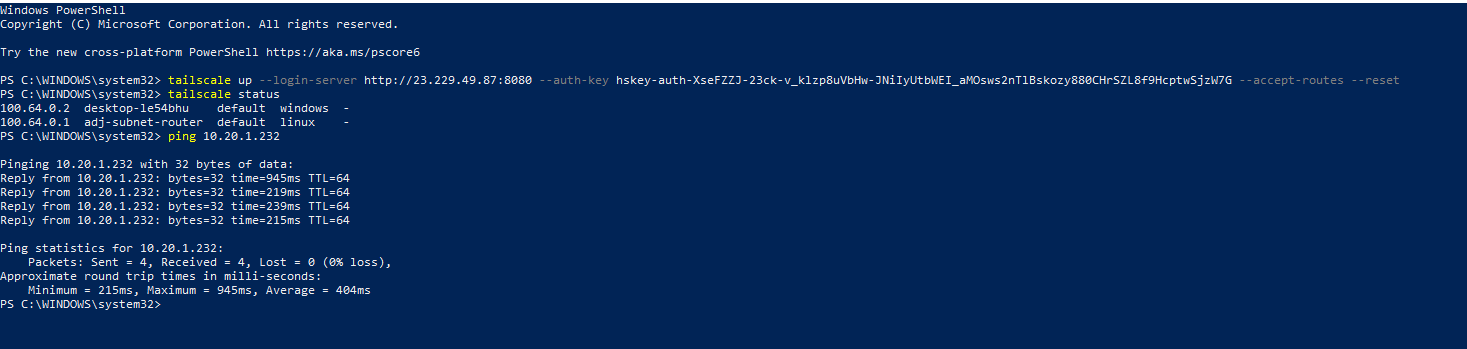
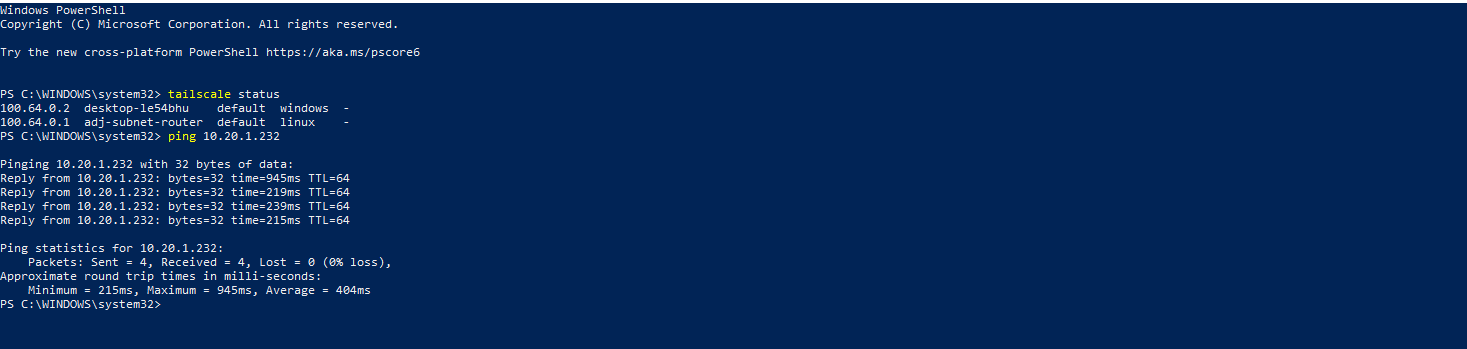
docs: restructure Tutorial 1 around build-private-network.sh, redact real credentials from screenshot

Changed region(s): [[0.0, 0.2006, 0.9509, 0.2579]]

diff --git a/src/content/docs/tutorials/build-private-network-headscale.md b/src/content/docs/tutorials/build-private-network-headscale.md
@@ -280,10 +280,12 @@ other device. The script applies this split automatically.
 :::caution
 
 Marketplace App templates like this one get a default SSH firewall rule at deploy time, open to
-**any address** (`0.0.0.0/0`, both TCP and UDP port 22). Not something you created, and not scoped
-to you. The script finds and deletes it, then adds a replacement scoped to your own IP. Plain OS
-templates (like the subnet router below) don't get this default rule and start with nothing open, so
-this only applies to the Headplane VM.
+**any address** (`0.0.0.0/0`, both TCP and UDP port 22), an explicit rule visible in
+`zcp firewall list`. Not something you created, and not scoped to you. The script finds and deletes
+it, then adds a replacement scoped to your own IP.
+
+This is specific to Marketplace App templates. The subnet router, deployed from a plain OS image,
+never gets this default rule, so this lockdown step only applies to Headplane.
 
 :::
 
